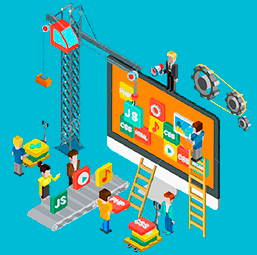
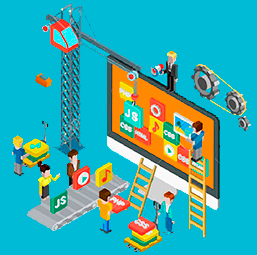
19/23

diff --git a/css/style.css b/css/style.css
@@ -51,7 +51,7 @@ body {
     -webkit-box-shadow: 3px 3px 5px rgba(0,0,0,0.6);
     -moz-box-shadow: 3px 3px 5px rgba(0,0,0,0.6);
     box-shadow: 3px 3px 5px rgba(0,0,0,0.6);
-    background-color: #00BBD5;
+    background-color: #00BDD7;
 }
 .header__wrapper{
     display: -webkit-flex;
@@ -122,8 +122,8 @@ body {
 }
 .header__dev {
     position: absolute;
-    width: 90%;
-    right: 100%;
+    /*width: 90%;*/
+    /*right: 100%;*/
     bottom: 0;
 }
 .header__prof{
@@ -453,7 +453,7 @@ body {
     }
     .header__dev {
         width: 90%;
-        right: 0;
+        right: 10px;
         bottom: 110%;
     } 
     .header__prof{
